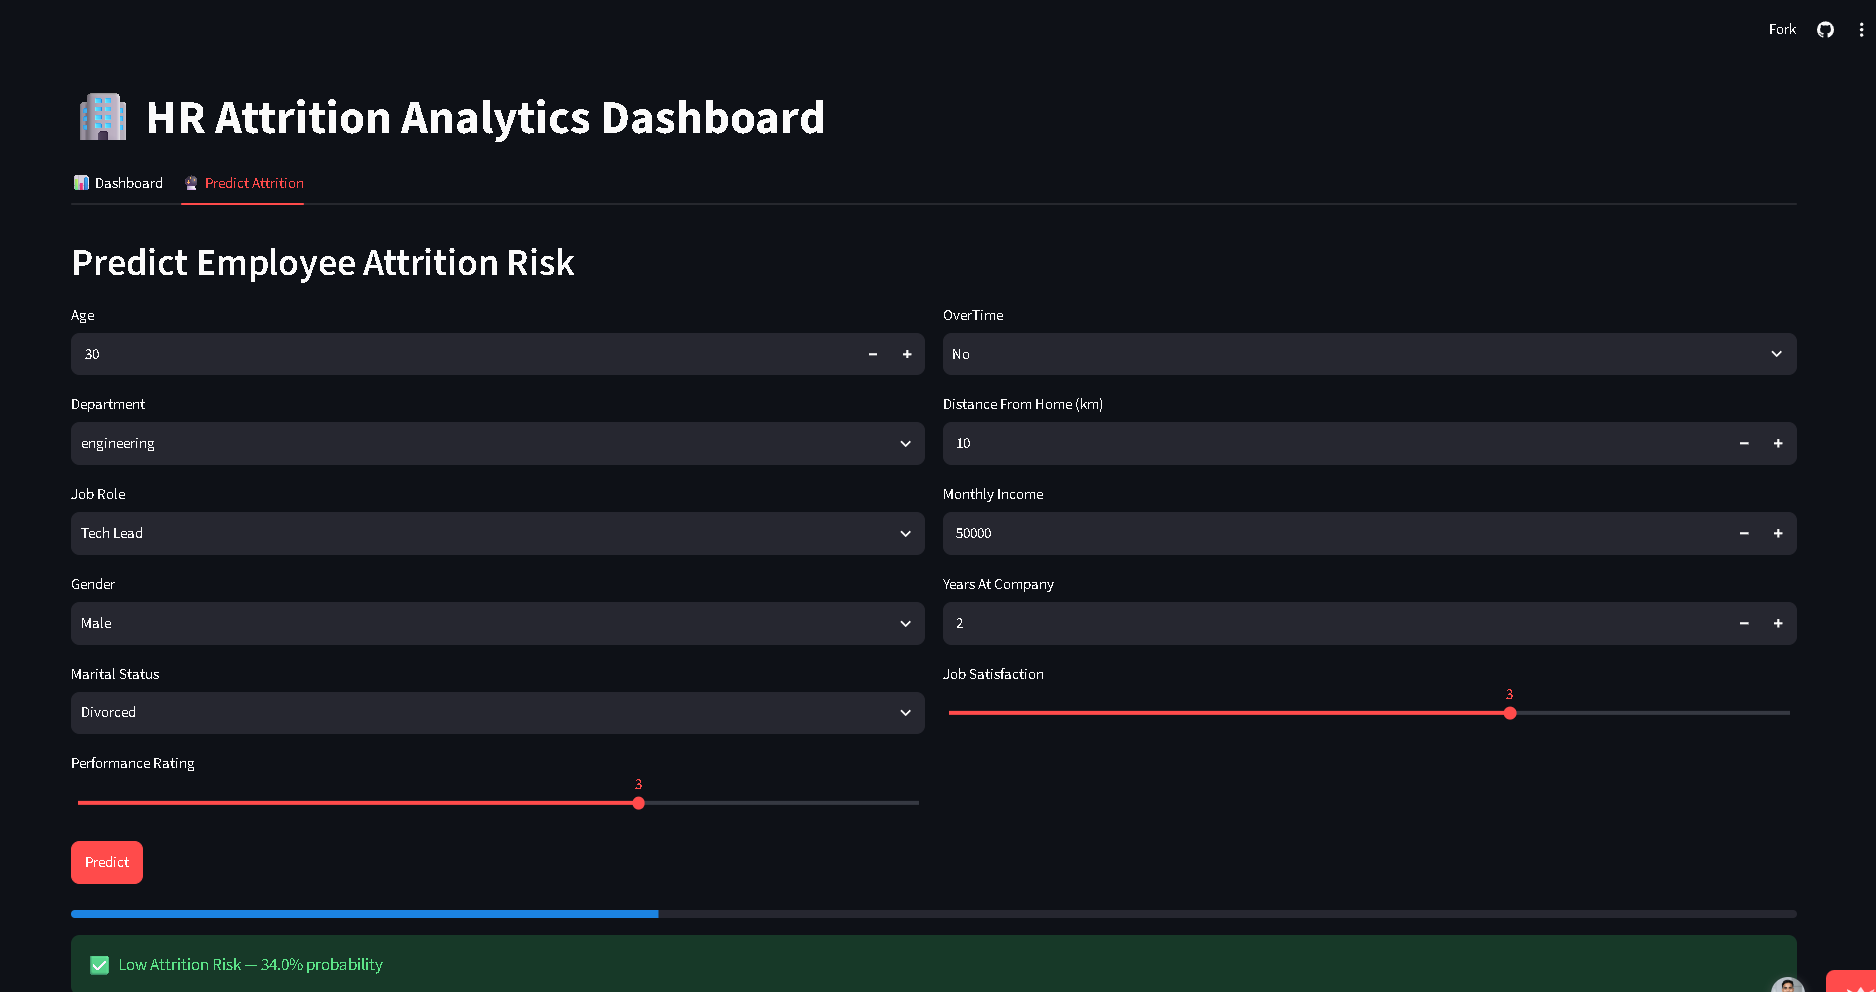
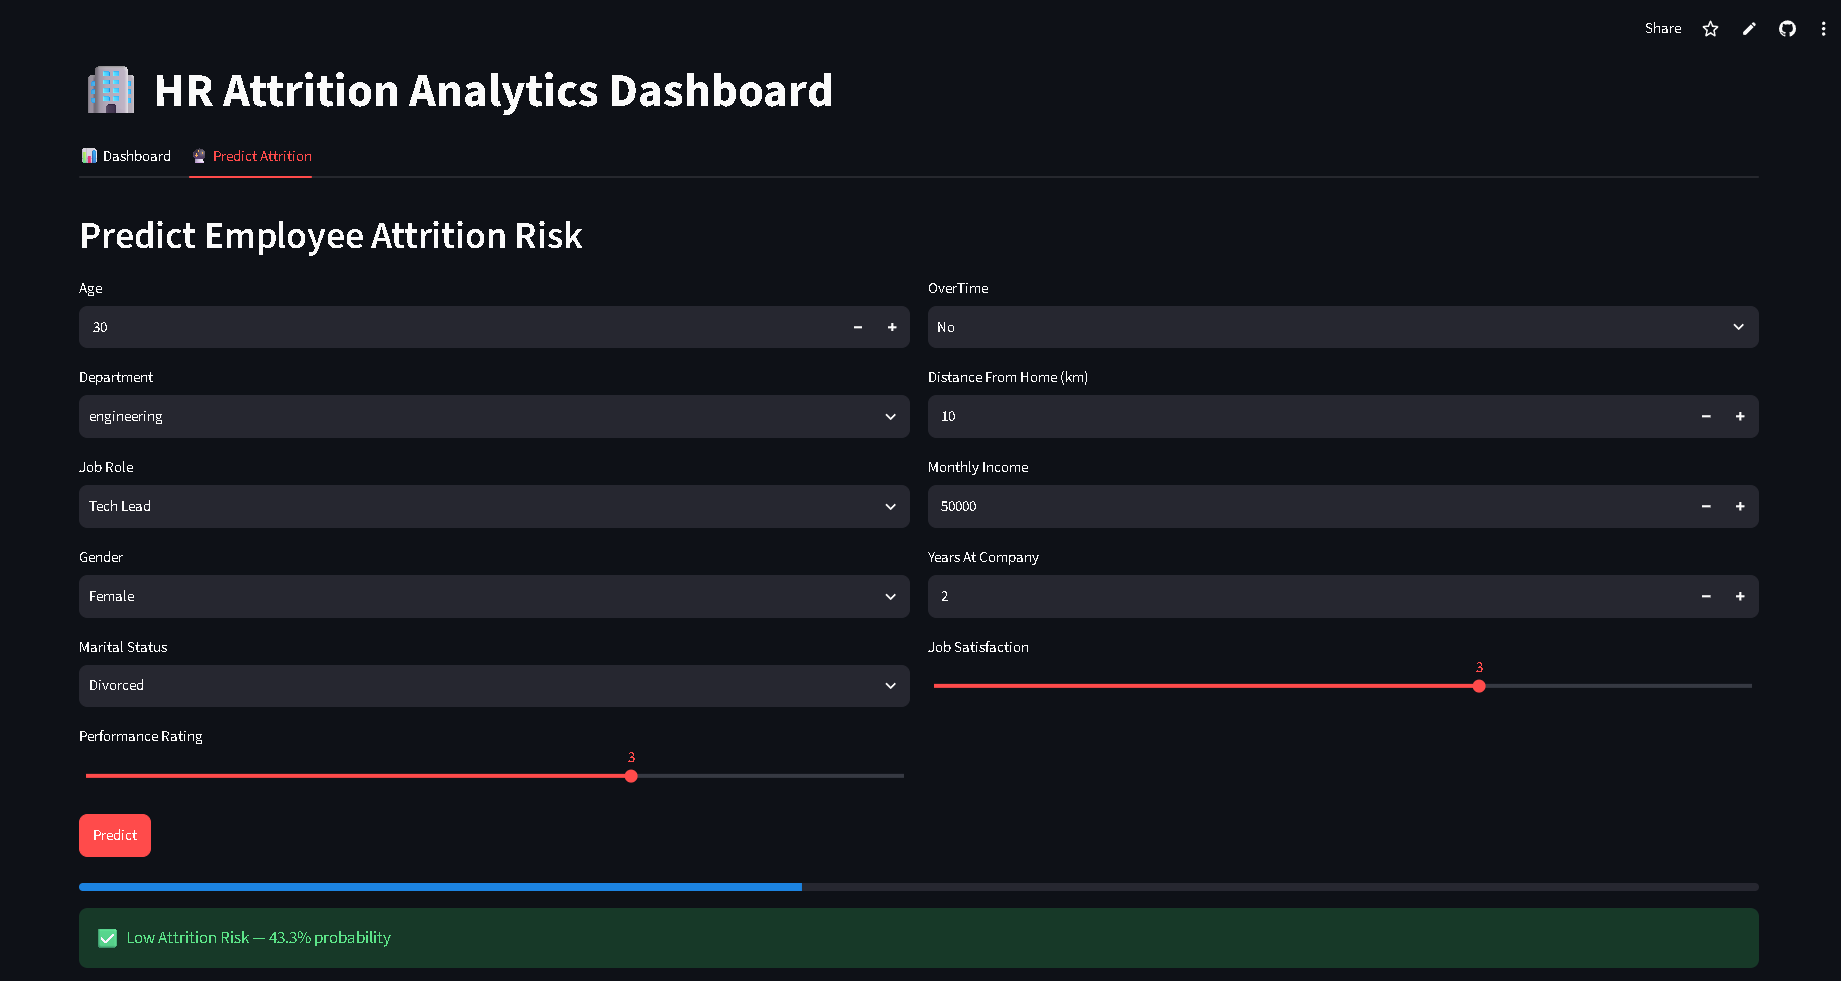
SMOTE pipeline, naya model, README aur screenshot update

Changed region(s): [[0.031, 0.3058, 1.0, 1.0], [0.031, 0.0612, 0.4644, 0.2752]]

diff --git a/README.md b/README.md
@@ -132,7 +132,7 @@ These show what is linked to attrition. They do not prove what causes it.
 
 ## 🤖 Machine Learning Model
 
-I used a Random Forest. Only about 29% of employees left, so the classes are uneven. I used SMOTE on the training data to balance it, and tuned the model with GridSearchCV. I kept 20% of the data aside for testing.
+I used a Random Forest. Only about 29% of employees left, so the classes are uneven. I used SMOTE on the training data to balance it, and tuned the model with GridSearchCV. I put SMOTE inside the cross-validation pipeline, so the validation scores are not made better by the extra synthetic rows. I kept 20% of the data aside for testing, and SMOTE was never applied to it.
 
 | Result on test data (people who left) | Value |
 |---|---|
